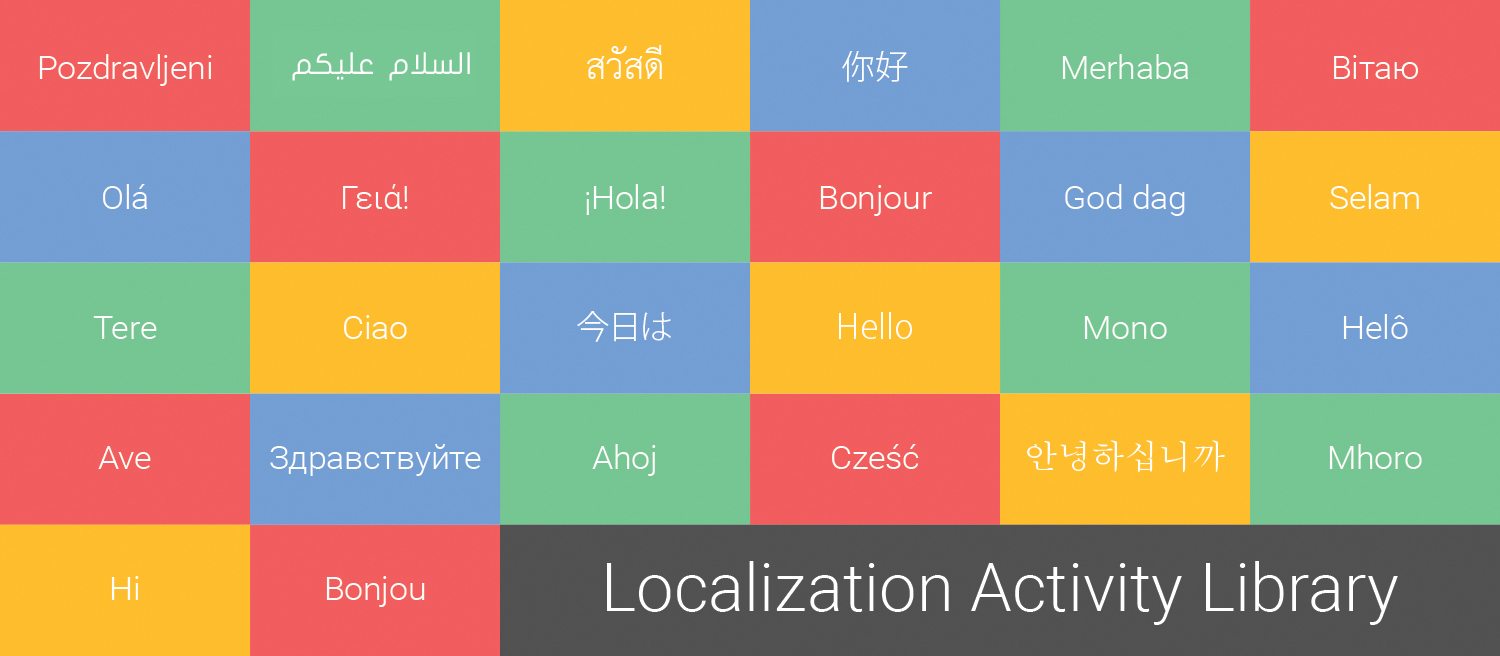
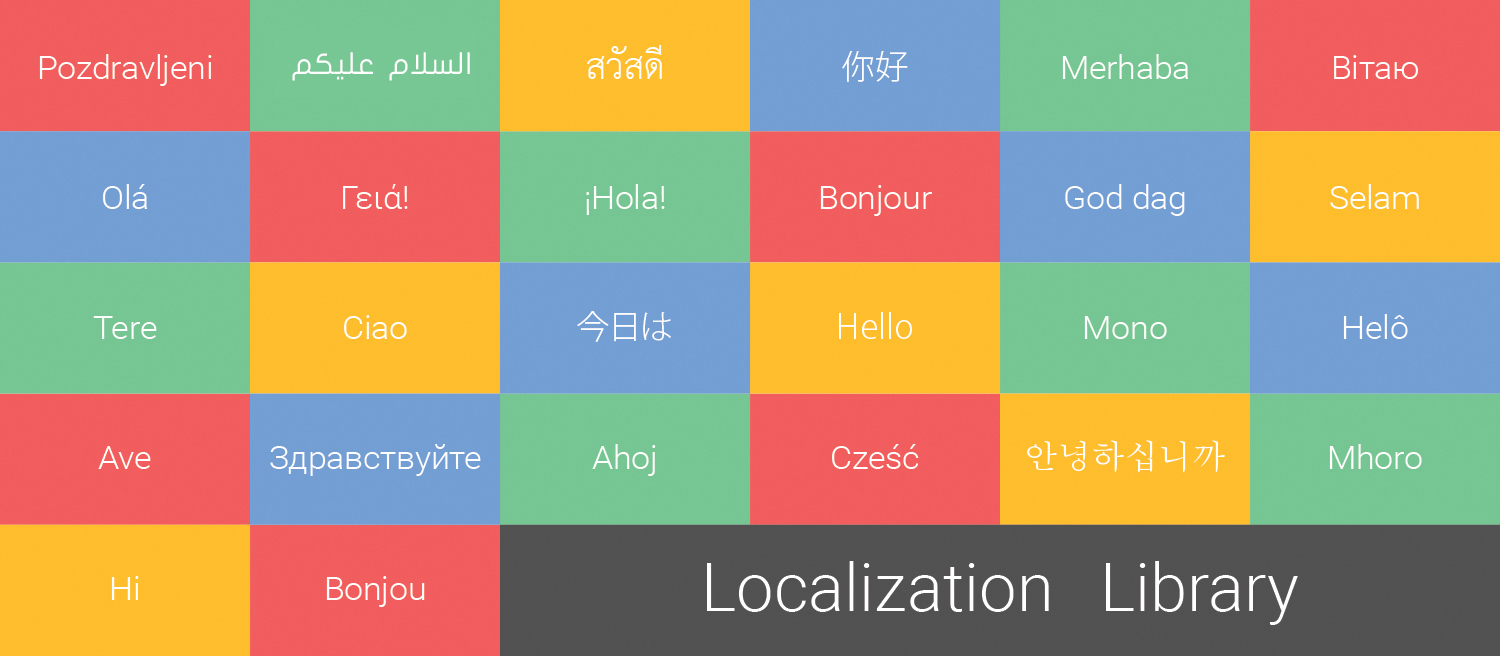
Update cover image and badge

Changed region(s): [[0.3987, 0.8537, 0.9507, 0.9451]]

diff --git a/README.md b/README.md
@@ -1,7 +1,7 @@
 
-[![Android Arsenal](https://img.shields.io/badge/Android%20Arsenal-Android--Localization-brightgreen.svg?style=flat)](http://android-arsenal.com/details/1/2890) [![Build Status](https://travis-ci.org/akexorcist/Android-LocalizationActivity.svg?branch=master)](https://travis-ci.org/akexorcist/Android-LocalizationActivity) [![Maven Central](https://maven-badges.herokuapp.com/maven-central/com.akexorcist/localizationactivity/badge.svg)](https://maven-badges.herokuapp.com/maven-central/com.akexorcist/localizationactivity)
+[![Android Arsenal](https://img.shields.io/badge/Android%20Arsenal-Android--Localization-brightgreen.svg?style=flat)](http://android-arsenal.com/details/1/2890) [![Build Status](https://travis-ci.org/akexorcist/Android-Localization.svg?branch=master)](https://travis-ci.org/akexorcist/Android-Localization) [![JCenter](https://api.bintray.com/packages/akexorcist/maven/localization/images/download.svg)](https://bintray.com/akexorcist/maven/localization)
 
-Android-LocalizationActivity
+Localization Library
 ==============================
 
 ![Header image](https://raw.githubusercontent.com/akexorcist/Android-Localization/master/image/01-header.jpg)
@@ -123,7 +123,7 @@ LocalizationActivity extends from AppCompatActivity
 ===========================
 LocalizationActivity is extended from AppCompatActivity class. So you still can use all methods from AppCompatActivity class.
 
-![Header image](https://raw.githubusercontent.com/akexorcist/Android-LocalizationActivity/master/image/03-extend.jpg)
+![Header image](https://raw.githubusercontent.com/akexorcist/Android-Localization/master/image/03-extend.jpg)
 
 
 Don't like AppCompat? Try delegate way 
@@ -227,7 +227,7 @@ class MainActivity: LocalizationActivity() {
 
 Then just build up some String Resource for English and Thai language.
 
-![Header image](https://raw.githubusercontent.com/akexorcist/Android-LocalizationActivity/master/image/02-string_resource.jpg)
+![Header image](https://raw.githubusercontent.com/akexorcist/Android-Localization/master/image/02-string_resource.jpg)
 
 Complete! Your application now supports multiple languages now.
 
